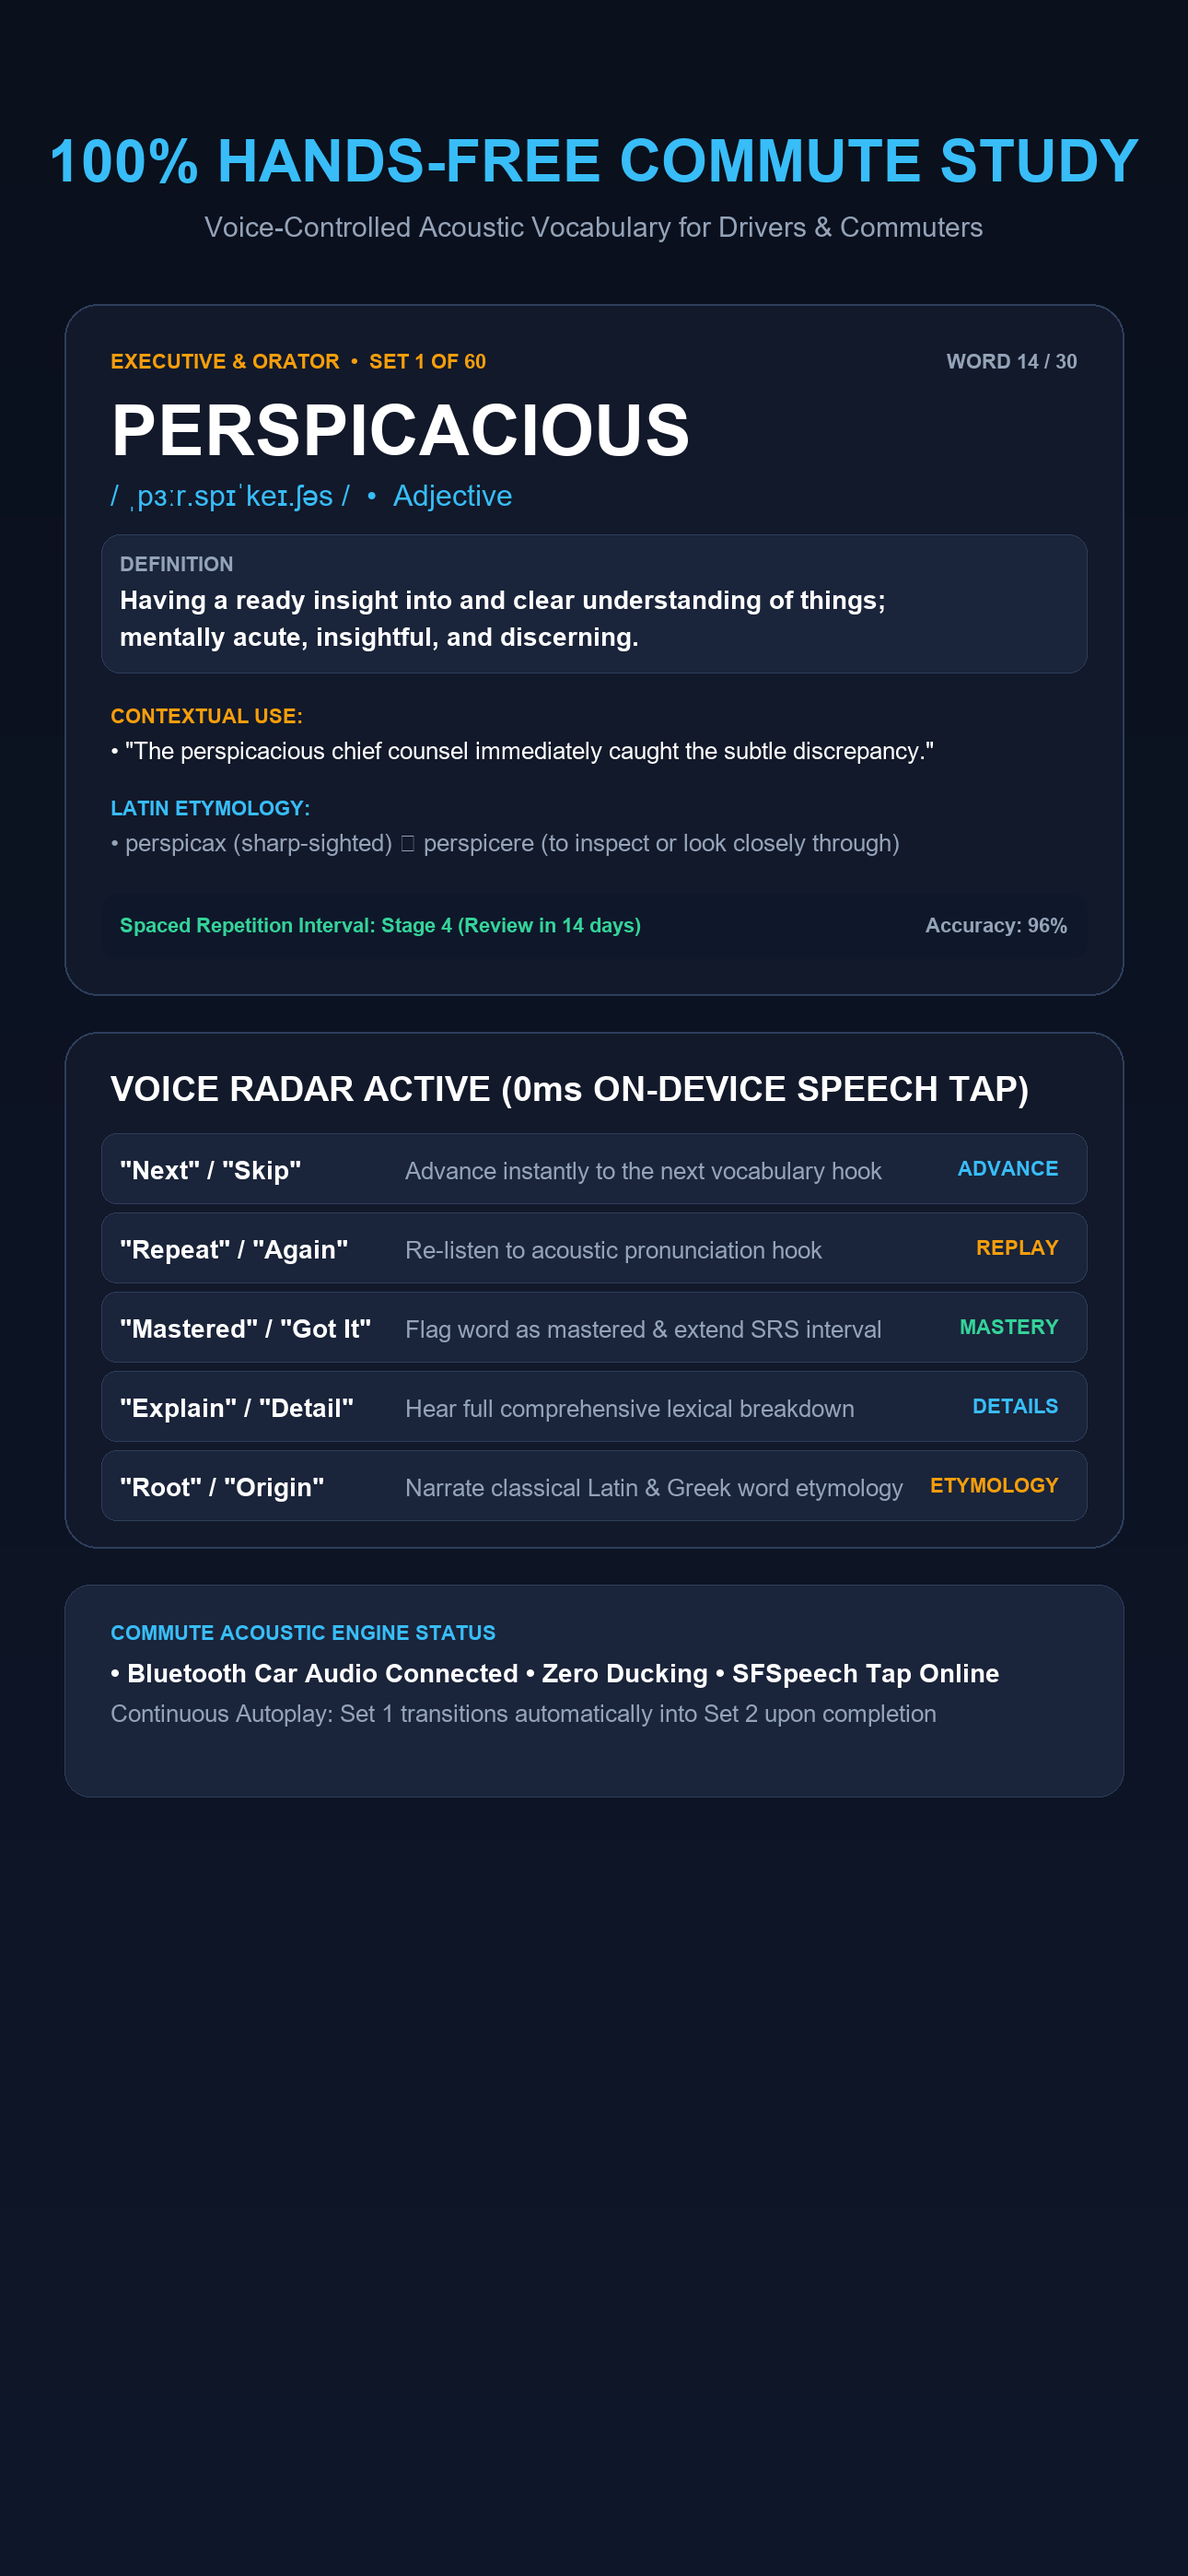
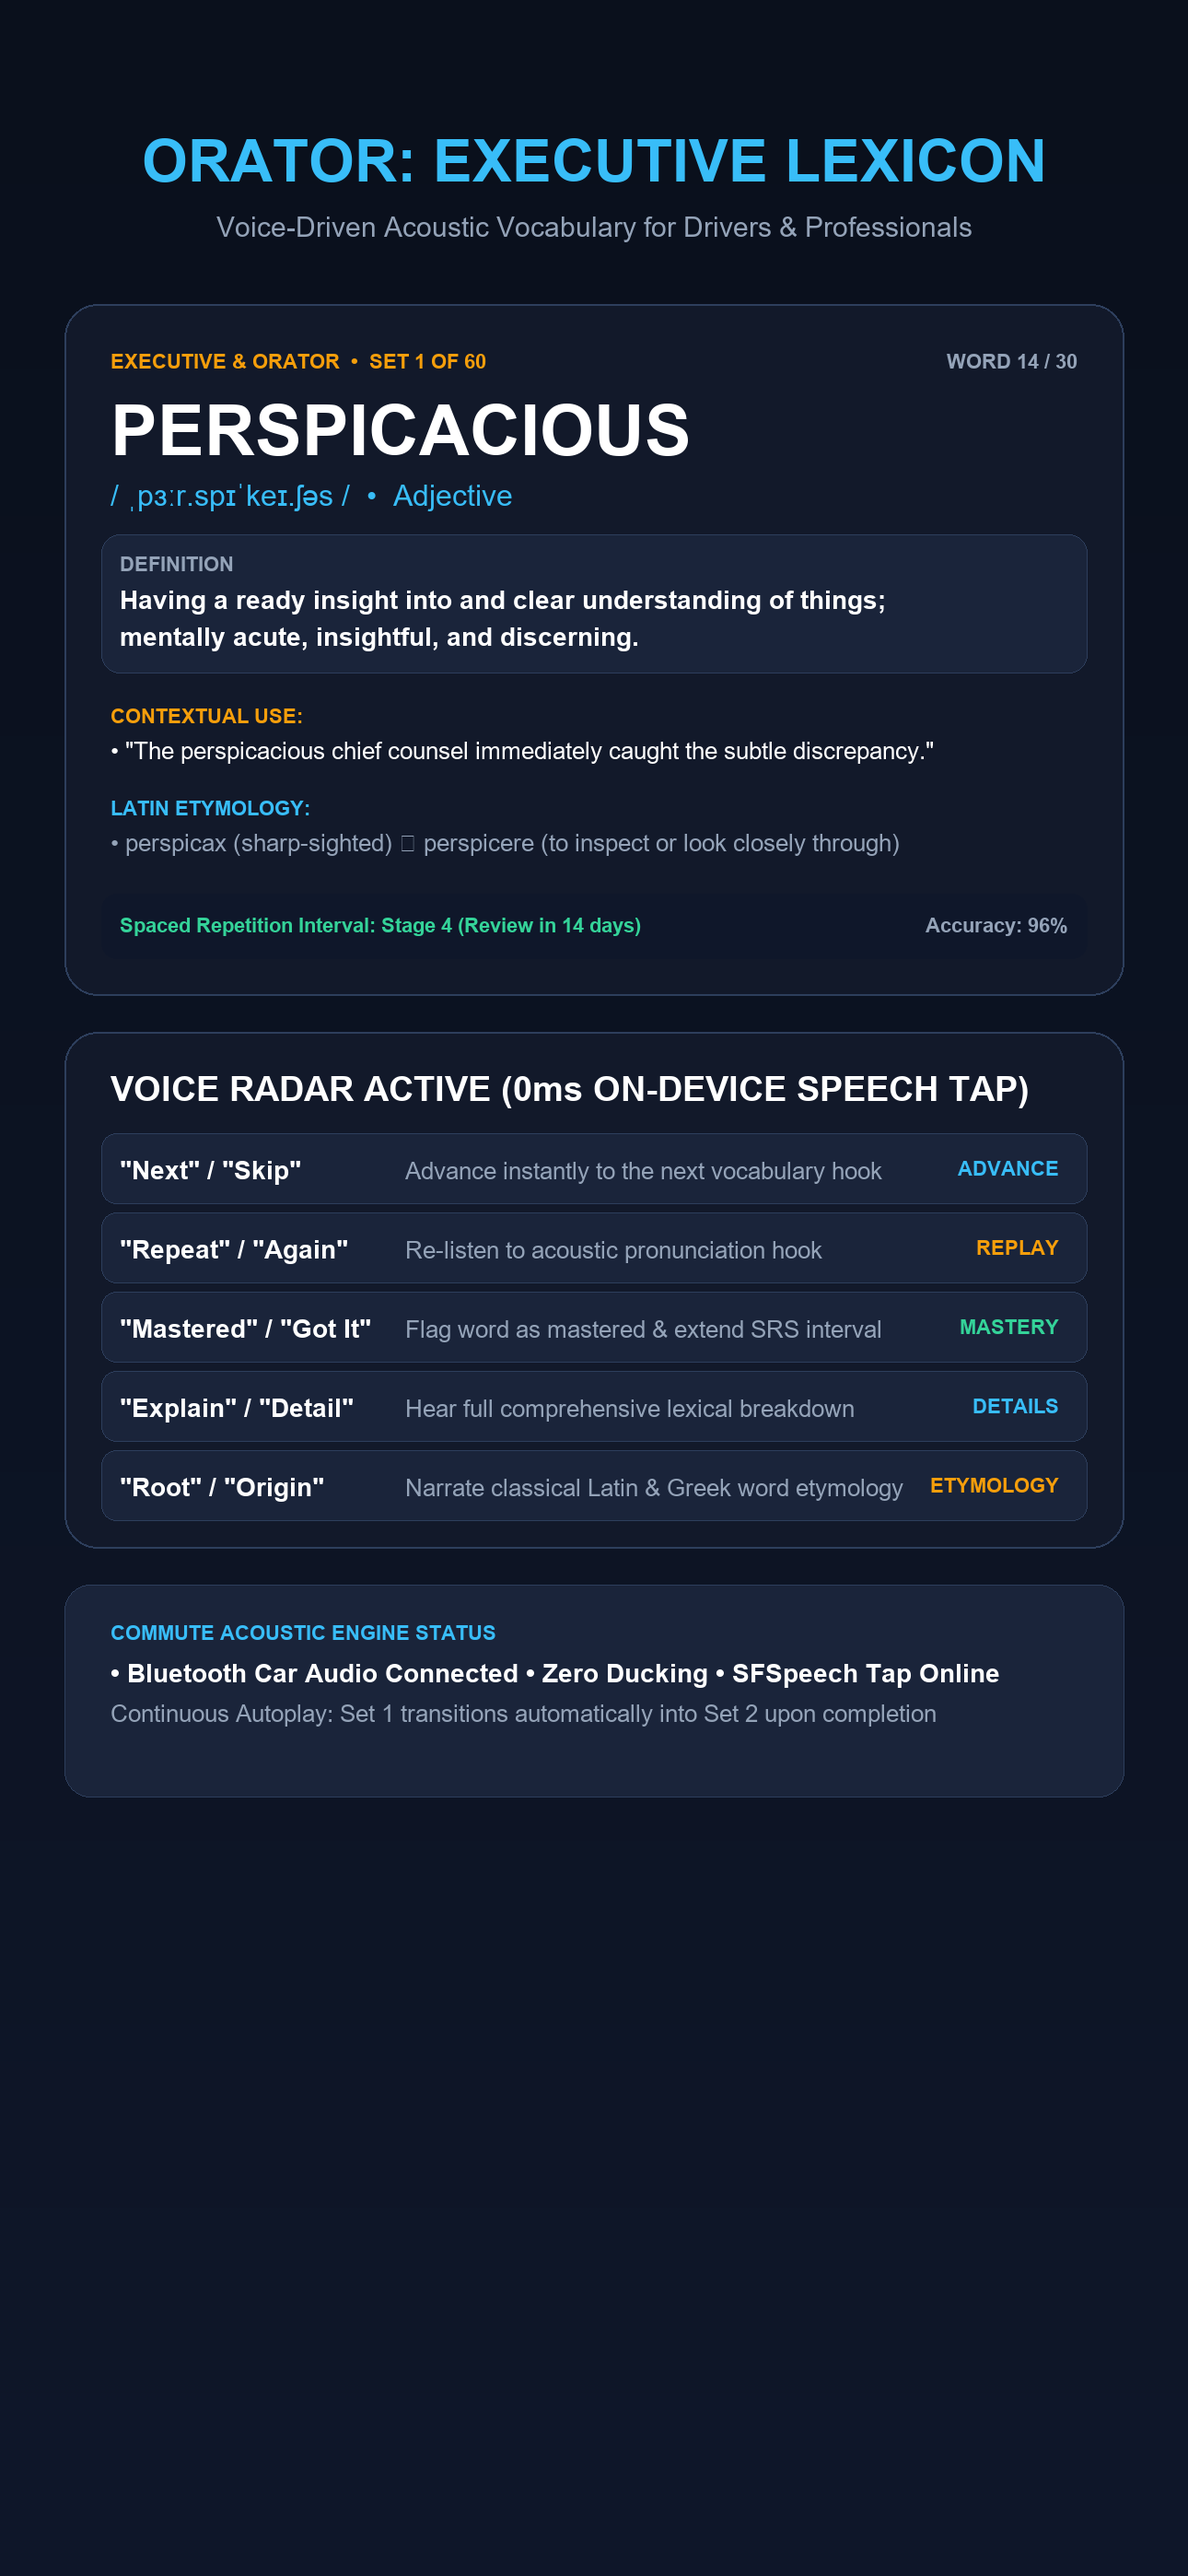
feat(branding): transition app identity to Orator: Executive Lexicon across Swift code, plist, metadata, and screenshots

Changed region(s): [[0.062, 0.0311, 0.9612, 0.0933]]

diff --git a/ContentView.swift b/ContentView.swift
@@ -45,7 +45,7 @@ public struct ContentView: View {
                     .padding(.vertical, 16)
                 }
             }
-            .navigationTitle("Hands-Free Vocab")
+            .navigationTitle("Orator")
             .navigationBarTitleDisplayMode(.inline)
             .toolbar {
                 ToolbarItem(placement: .topBarLeading) {
@@ -373,7 +373,7 @@ public struct ContentView: View {
                 Color(red: 0.08, green: 0.09, blue: 0.12).ignoresSafeArea()
                 ScrollView {
                     VStack(alignment: .leading, spacing: 20) {
-                        Text("Drive safely. Hands-Free Vocab requires zero touches or button pressing while you are behind the wheel.")
+                        Text("Drive safely. Orator requires zero touches or button pressing while you are behind the wheel.")
                             .font(.system(size: 15))
                             .foregroundColor(.gray)
 
@@ -385,7 +385,7 @@ public struct ContentView: View {
                         commandGuideRow("Root / Origin / Etymology", description: "Narrates Latin/Greek roots and morphological word family.")
                         commandGuideRow("Pause / Stop / Wait", description: "Temporarily pauses the audio session.")
                         commandGuideRow("Resume / Play / Continue", description: "Resumes audio playback exactly where you left off.")
-                        commandGuideRow("Hey Siri, start Hands-Free Vocab", description: "Launches the app and immediately starts automotive audio playback.")
+                        commandGuideRow("Hey Siri, start Orator", description: "Launches the app and immediately starts automotive audio playback.")
                     }
                     .padding(24)
                 }

diff --git a/VoiceManager.swift b/VoiceManager.swift
@@ -380,7 +380,7 @@ public final class VoiceManager: NSObject, AVAudioPlayerDelegate, AVSpeechSynthe
         var info: [String: Any] = [
             MPMediaItemPropertyTitle: word.word.uppercased(),
             MPMediaItemPropertyArtist: "\(word.partOfSpeech) • \(word.phonetic)",
-            MPMediaItemPropertyAlbumTitle: "Hands-Free Vocab [\(status)]",
+            MPMediaItemPropertyAlbumTitle: "Orator [\(status)]",
             MPNowPlayingInfoPropertyPlaybackRate: isPlaying ? 1.0 : 0.0,
             MPNowPlayingInfoPropertyMediaType: MPNowPlayingInfoMediaType.audio.rawValue,
             MPMediaItemPropertyPlaybackDuration: player?.duration ?? 30.0,

diff --git a/VocabAppIntents.swift b/VocabAppIntents.swift
@@ -11,8 +11,8 @@ import SwiftUI
 
 @available(iOS 17.0, *)
 public struct StartHandsFreeVocabIntent: AppIntent {
-    public static var title: LocalizedStringResource = "Start Hands-Free Vocab"
-    public static var description = IntentDescription("Launches Hands-Free Vocab and automatically begins your automotive vocabulary study session.")
+    public static var title: LocalizedStringResource = "Start Orator"
+    public static var description = IntentDescription("Launches Orator and automatically begins your automotive vocabulary study session.")
 
     public static var openAppWhenRun: Bool = true
 

diff --git a/replace_all_screenshots.py b/replace_all_screenshots.py
@@ -1,0 +1,98 @@
+import os, sys, requests
+sys.path.append(r"C:\Users\mohal\.appstoreconnect")
+from asc_pilot import get_headers
+
+headers = get_headers()
+loc_id = "46006101-2b28-4050-b535-2973c37bb978"
+
+# 1. Fetch current sets and shots
+res = requests.get(f"https://api.appstoreconnect.apple.com/v1/appStoreVersionLocalizations/{loc_id}/appScreenshotSets?include=appScreenshots", headers=headers)
+sets_data = res.json().get("data", [])
+
+for s in sets_data:
+    set_id = s["id"]
+    display_type = s["attributes"]["screenshotDisplayType"]
+    print(f"\nCleaning existing screenshots in {display_type} ({set_id})...")
+    shots = s.get("relationships", {}).get("appScreenshots", {}).get("data", [])
+    for shot in shots:
+        shot_id = shot["id"]
+        del_res = requests.delete(f"https://api.appstoreconnect.apple.com/v1/appScreenshots/{shot_id}", headers=headers)
+        print(f"  Deleted shot {shot_id}: HTTP {del_res.status_code}")
+
+print("\nUploading refreshed screenshots with ORATOR branding...")
+
+DIRS = {
+    "35ca2466-6739-4b75-b4d2-69c37793abe3": r"C:\Users\mohal\Documents\antigravity\hands-free-vocab\screenshots\iphone_65",
+    "c9c0dfd4-8827-4b23-b53f-3b474cd35e01": r"C:\Users\mohal\Documents\antigravity\hands-free-vocab\screenshots\iphone_67",
+    "0840cde4-5f85-4dd7-bc54-015fdcdbc7a8": r"C:\Users\mohal\Documents\antigravity\hands-free-vocab\screenshots\ipad_13"
+}
+
+def upload_screenshot(set_id, file_path):
+    file_name = os.path.basename(file_path)
+    file_size = os.path.getsize(file_path)
+    
+    res_payload = {
+        "data": {
+            "type": "appScreenshots",
+            "attributes": {
+                "fileName": file_name,
+                "fileSize": file_size
+            },
+            "relationships": {
+                "appScreenshotSet": {
+                    "data": {
+                        "type": "appScreenshotSets",
+                        "id": set_id
+                    }
+                }
+            }
+        }
+    }
+    r = requests.post("https://api.appstoreconnect.apple.com/v1/appScreenshots", headers=headers, json=res_payload)
+    if r.status_code not in [200, 201]:
+        print(f"Error reserving slot for {file_name}: {r.status_code} {r.text}")
+        return False
+        
+    shot_data = r.json()["data"]
+    shot_id = shot_data["id"]
+    upload_ops = shot_data["attributes"]["uploadOperations"]
+    
+    with open(file_path, "rb") as f:
+        file_bytes = f.read()
+        
+    for op in upload_ops:
+        url = op["url"]
+        offset = op["offset"]
+        length = op["length"]
+        headers_op = {h["name"]: h["value"] for h in op.get("requestHeaders", [])}
+        chunk = file_bytes[offset:offset+length]
+        
+        up_res = requests.put(url, data=chunk, headers=headers_op)
+        if up_res.status_code not in [200, 201]:
+            print(f"Error uploading chunk: {up_res.status_code}")
+            return False
+            
+    commit_payload = {
+        "data": {
+            "type": "appScreenshots",
+            "id": shot_id,
+            "attributes": {
+                "uploaded": True
+            }
+        }
+    }
+    c_res = requests.patch(f"https://api.appstoreconnect.apple.com/v1/appScreenshots/{shot_id}", headers=headers, json=commit_payload)
+    if c_res.status_code in [200, 201]:
+        print(f"  [OK] Uploaded & committed {file_name} ({shot_id})")
+        return True
+    else:
+        print(f"Error committing {file_name}: {c_res.status_code}")
+        return False
+
+for set_id, dir_path in DIRS.items():
+    print(f"\nUploading to set {set_id} from {dir_path}...")
+    files = sorted([f for f in os.listdir(dir_path) if f.endswith(".png")])
+    for f in files:
+        upload_screenshot(set_id, os.path.join(dir_path, f))
+
+print("\nAll refreshed screenshots uploaded successfully!")

diff --git a/generate_vocab_screenshots.py b/generate_vocab_screenshots.py
@@ -66,8 +66,8 @@ def render_all_screens(w, h, out_dir):
     s1 = create_bg(w, h, (10, 16, 28), (15, 23, 42))
     d1 = ImageDraw.Draw(s1)
     
-    d1.text((int(w/2), int(150 * scale)), "100% HANDS-FREE COMMUTE STUDY", font=f['title'], fill=electric_cyan, anchor='mt')
-    d1.text((int(w/2), int(235 * scale)), "Voice-Controlled Acoustic Vocabulary for Drivers & Commuters", font=f['sub'], fill=text_dim, anchor='mt')
+    d1.text((int(w/2), int(150 * scale)), "ORATOR: EXECUTIVE LEXICON", font=f['title'], fill=electric_cyan, anchor='mt')
+    d1.text((int(w/2), int(235 * scale)), "Voice-Driven Acoustic Vocabulary for Drivers & Professionals", font=f['sub'], fill=text_dim, anchor='mt')
     
     # Hero Card: Active Word Player
     hero1 = (int(70 * scale), int(330 * scale), int(w - 70 * scale), int(1080 * scale))
@@ -264,7 +264,7 @@ def render_all_screens(w, h, out_dir):
     hero4 = (int(70 * scale), int(330 * scale), int(w - 70 * scale), int(800 * scale))
     draw_card(d4, hero4, int(36 * scale), fill=card_bg, outline=card_border, width=2)
     d4.text((int(120 * scale), int(380 * scale)), "SIRI VOICE LAUNCH PROTOCOL", font=f['tag'], fill=mastered_green)
-    d4.text((int(120 * scale), int(430 * scale)), '"Hey Siri, start Hands-Free Vocab"', font=f['word_hero'], fill=text_white)
+    d4.text((int(120 * scale), int(430 * scale)), '"Hey Siri, start Orator"', font=f['word_hero'], fill=text_white)
     
     d4.text((int(120 * scale), int(550 * scale)), "• Native iOS App Intents (VocabAppIntents.swift)", font=f['body_bold'], fill=electric_cyan)
     d4.text((int(120 * scale), int(600 * scale)), "• Hands-free commute session launches immediately while driving", font=f['body'], fill=text_white)

diff --git a/set_vocab_price.py b/set_vocab_price.py
@@ -1,0 +1,60 @@
+import sys, os, requests, json
+sys.path.append(r'C:\Users\mohal\.appstoreconnect')
+from asc_pilot import get_headers
+
+headers = get_headers()
+app_id = '6818910446'
+# Tier 2 ($1.99)
+price_point_id = 'eyJzIjoiNjgxODkxMDQ0NiIsInQiOiJVU0EiLCJwIjoiMTAwMjMifQ'
+
+payload = {
+    "data": {
+        "type": "appPriceSchedules",
+        "relationships": {
+            "app": {
+                "data": {
+                    "type": "apps",
+                    "id": app_id
+                }
+            },
+            "baseTerritory": {
+                "data": {
+                    "type": "territories",
+                    "id": "USA"
+                }
+            },
+            "manualPrices": {
+                "data": [
+                    {
+                        "type": "appPrices",
+                        "id": "${temp-price-id}"
+                    }
+                ]
+            }
+        }
+    },
+    "included": [
+        {
+            "type": "appPrices",
+            "id": "${temp-price-id}",
+            "attributes": {
+                "startDate": None
+            },
+            "relationships": {
+                "appPricePoint": {
+                    "data": {
+                        "type": "appPricePoints",
+                        "id": price_point_id
+                    }
+                }
+            }
+        }
+    ]
+}
+
+res = requests.post('https://api.appstoreconnect.apple.com/v1/appPriceSchedules', headers=headers, json=payload)
+print(f"Set app base price HTTP {res.status_code}")
+if res.status_code in [200, 201]:
+    print("[OK] Successfully set base app price to Tier 2 ($1.99) worldwide!")
+else:
+    print(res.text)
